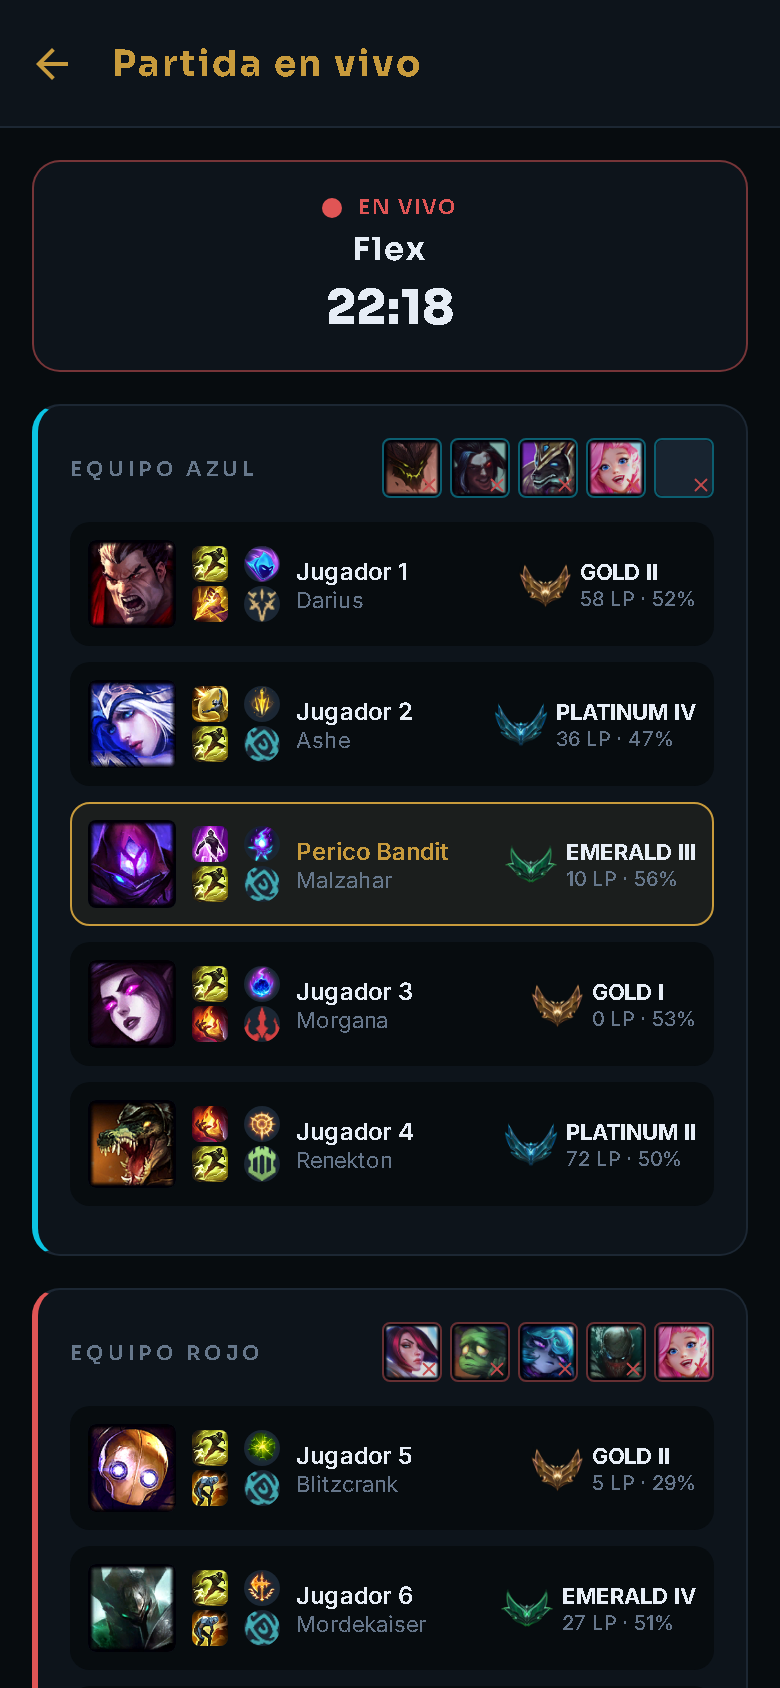
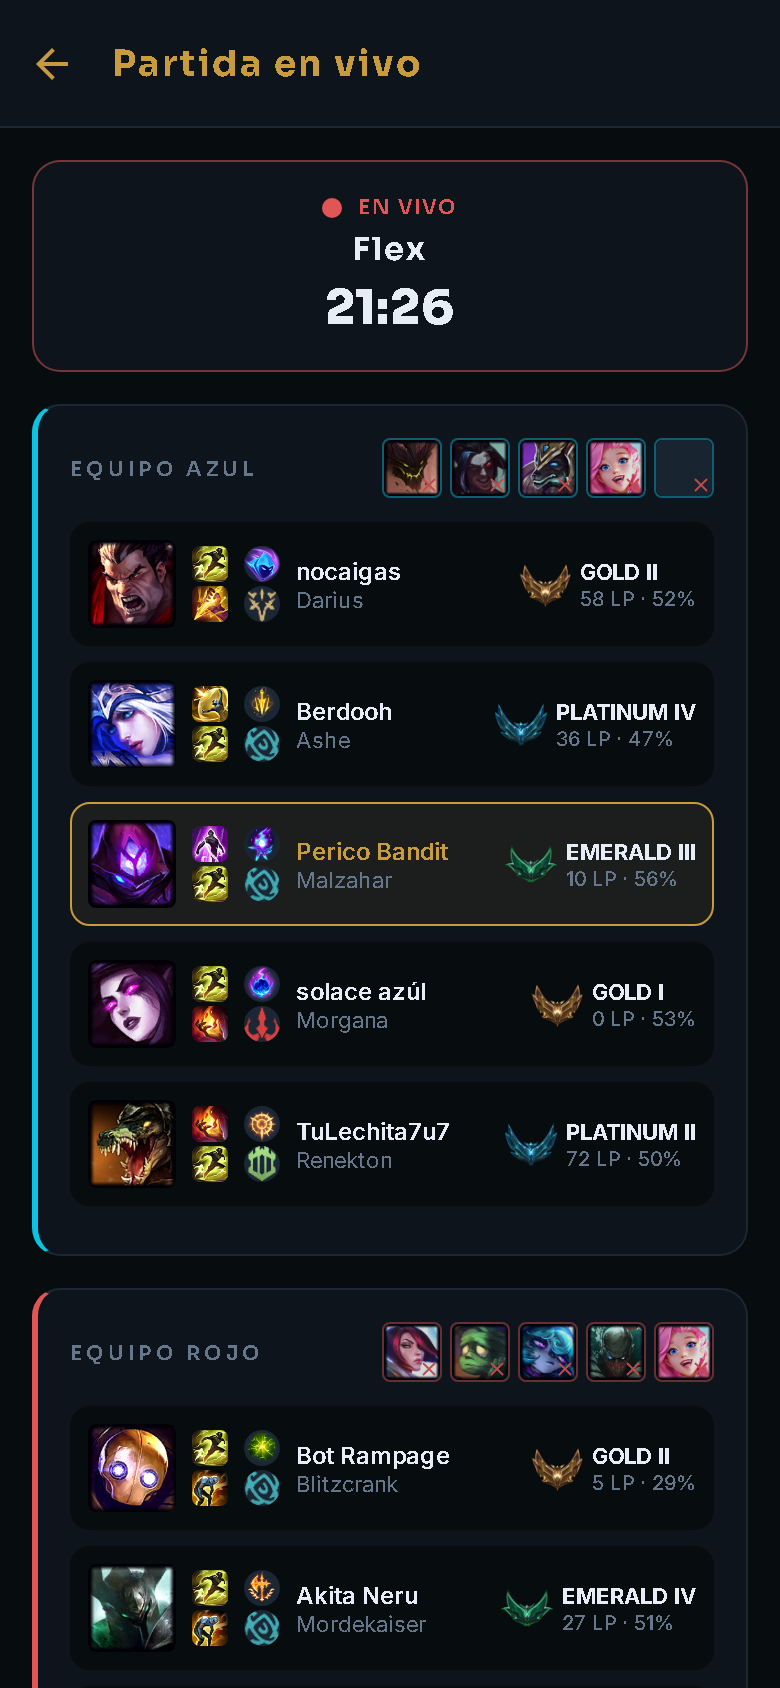
docs: capturas de la partida en vivo con los nombres reales de los jugadores

diff --git a/README.md b/README.md
@@ -117,7 +117,7 @@ Se buscan por **`#TAG`** y no tienen regiones.
 
 <sub>Las capturas de Brawl Stars, Clash Royale y Clash of Clans usan datos reales de la API de Supercell. Las de TFT son anteriores al rediseño de íconos.</sub>
 
-<sub>La partida en vivo es de una partida real de Flex; los nombres de los otros nueve jugadores se reemplazaron por "Jugador N" para no publicar cuentas ajenas.</sub>
+<sub>La partida en vivo es de una partida real de Flex, con los nombres tal como los muestra la app.</sub>
 
 <sub>* El aviso de mantenimiento se muestra solo cuando Riot reporta uno activo; en la captura se simuló uno para enseñar el diseño. Las demás son datos reales de la API.</sub>
 
